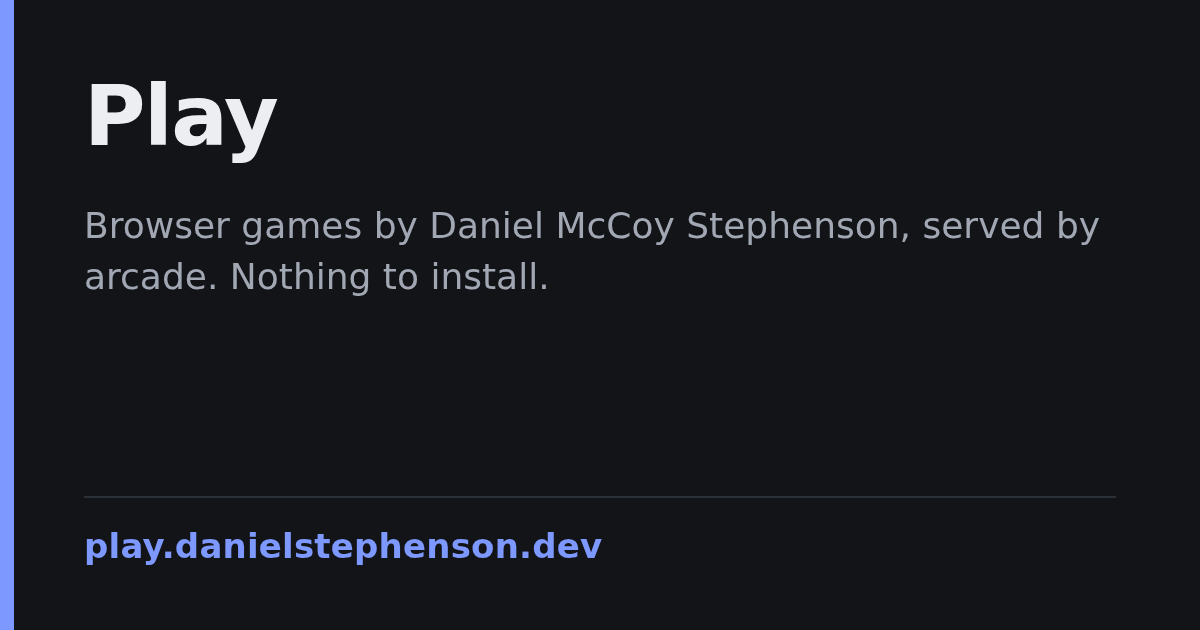
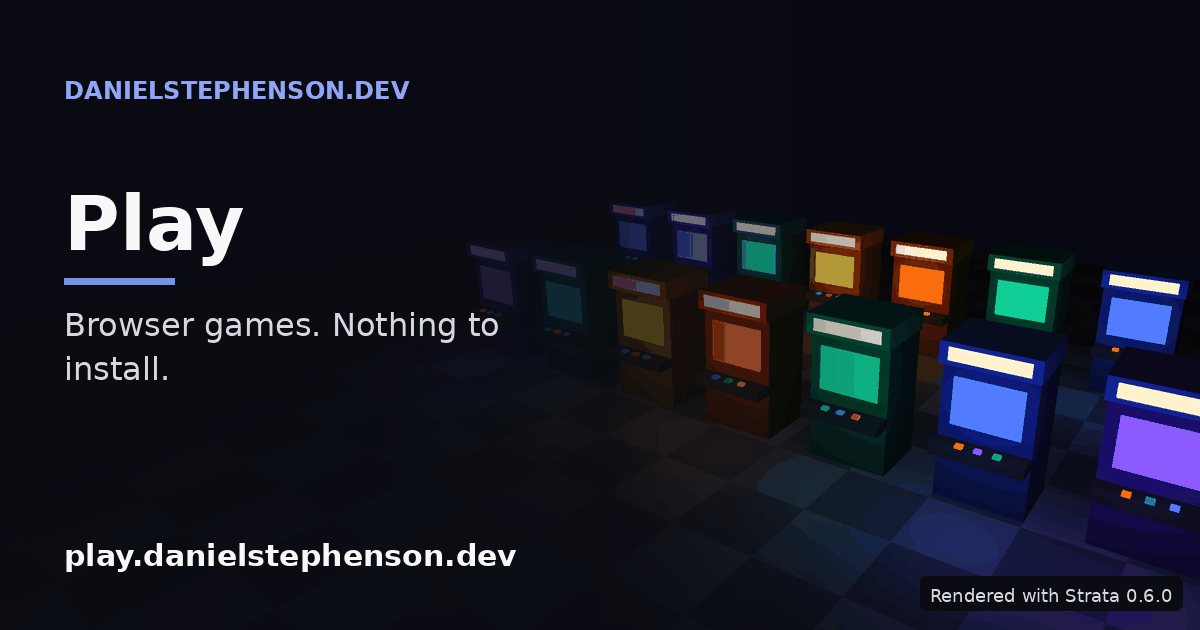
Redraw the landing page's share image as a Strata-rendered scene
src/arcade/og.png was a text card. It is redrawn as rows of arcade cabinets
on a checkered floor at night, rendered in 3D with Strata 0.6.0 by
community-site-kit's tools/og-card, with the title and play domain over it.
It is a 256-colour PNG (61 KB), under the 150 KB the tests allow. Its spec
and provenance are kept in og-card/.

OG_IMAGE_ALT now describes the picture, and a test checks it against the card
spec's alt text.

drafted by Claude on behalf of Daniel Stephenson

diff --git a/tests/test_landing.py b/tests/test_landing.py
@@ -1,3 +1,5 @@
+import json
+import os
 import struct
 
 from arcade import landing
@@ -41,12 +43,12 @@ def test_the_page_carries_share_preview_tags_on_its_own_domain():
         '<meta property="og:image:type" content="image/png">',
         '<meta property="og:image:width" content="1200">',
         '<meta property="og:image:height" content="630">',
-        '<meta property="og:image:alt" content="Play: browser games by Daniel McCoy Stephenson',
+        '<meta property="og:image:alt" content="Rows of arcade cabinets on a checkered floor at night',
         '<meta name="twitter:card" content="summary_large_image">',
         '<meta name="twitter:title" content="Play &mdash;',
         '<meta name="twitter:description" content="Browser games',
         '<meta name="twitter:image" content="https://play.example.com/og.png">',
-        '<meta name="twitter:image:alt" content="Play: browser games',
+        '<meta name="twitter:image:alt" content="Rows of arcade cabinets',
     ):
         assert tag in page, tag
     assert "localhost" not in page
@@ -58,6 +60,14 @@ def test_the_share_image_is_a_png_of_the_size_the_tags_state():
     # IHDR follows the signature: big-endian width and height at bytes 16 and 20.
     assert struct.unpack(">II", data[16:24]) == (landing.OG_IMAGE_WIDTH, landing.OG_IMAGE_HEIGHT) == (1200, 630)
     assert len(data) < 150 * 1024
+
+
+def test_the_share_image_alt_text_is_its_card_spec_s():
+    root = os.path.join(os.path.dirname(os.path.abspath(__file__)), "..")
+    with open(os.path.join(root, "og-card", "card.json"), encoding="utf-8") as handle:
+        spec = json.load(handle)
+    assert os.path.normpath(os.path.join(root, "og-card", spec["output"])) == os.path.normpath(landing.OG_IMAGE_FILE)
+    assert landing.OG_IMAGE_ALT == spec["alt"]
 
 
 def test_the_share_preview_url_follows_the_configured_domain():

diff --git a/src/arcade/landing.py b/src/arcade/landing.py
@@ -23,16 +23,23 @@ TITLE = "Play &mdash; browser games by Daniel McCoy Stephenson"
 DESCRIPTION = "Browser games by Daniel McCoy Stephenson, served by arcade. Nothing to install."
 
 # The link-preview card named by og:image and twitter:image: og.png beside this
-# module, a 1200x630 image of the page's name, DESCRIPTION and the play domain
-# in the page's dark colours. It is served at /og.png on the API host only (a
-# game's host never answers it, like /robots.txt). The page itself never loads
-# it, so the CSP's "img-src data:" is unaffected. If the image is redrawn at
-# another size, change the dimensions here with it.
+# module, a 1200x630 picture of arcade cabinets rendered in 3D with Strata, with
+# the page's name and the play domain over it. It is drawn from og-card/card.json
+# (see og-card/README.md), and OG_IMAGE_ALT is that spec's alt text, word for
+# word: tests/test_landing.py fails if the two drift apart. It is served at
+# /og.png on the API host only (a game's host never answers it, like
+# /robots.txt). The page itself never loads it, so the CSP's "img-src data:" is
+# unaffected. If the image is redrawn at another size, change the dimensions
+# here with it.
 OG_IMAGE_PATH = "/og.png"
 OG_IMAGE_FILE = os.path.join(os.path.dirname(os.path.abspath(__file__)), "og.png")
 OG_IMAGE_WIDTH = 1200
 OG_IMAGE_HEIGHT = 630
-OG_IMAGE_ALT = "Play: browser games by Daniel McCoy Stephenson, served by arcade. Nothing to install."
+OG_IMAGE_ALT = (
+    "Rows of arcade cabinets on a checkered floor at night, each screen glowing a different colour, "
+    "rendered in 3D with Strata. Over it: the title Play, the line \u201cBrowser games. Nothing to install.\u201d, "
+    "and the address play.danielstephenson.dev."
+)
 _ogImage = []
 
 

diff --git a/README.md b/README.md
@@ -119,7 +119,7 @@ out for a phone first, and is sent with `Cache-Control: public, max-age=60`. Set
 | `POST` | `/api/games/<slug>/current` | `{"version": "…"}`: repoints the game to a stored version. This is rollback. Responses: **200**; **401/403** on a missing or wrong token; **400** for a body that is not that JSON; **413** for a body over 4 KiB; **404** for a version not on disk. |
 | `GET` | `/api/games`, `/api/games/<slug>` | slug, title, repo, url, aliases, kind, isolation, current, versions, **plays** (page loads by people; crawlers and scripts are excluded by User-Agent). Needs no token, never shows hashes, and is readable cross-origin (`Access-Control-Allow-Origin: *`) so the portal can show play counts. **404** for an unknown slug. |
 | `GET` | `/version.json` | `{"version": "<x.y.z>"}`: the version of arcade itself that is running (`arcade.__version__`), with `Cache-Control: no-store`, so a deploy can be verified by the version it reports. Needs no token. Answered on `play.<base>` only: on a game's host `/version.json` is the game's own path. |
-| `GET` | `/og.png` | The landing page's share-preview image (`og:image`, `twitter:image`): a 1200x630 PNG, `src/arcade/og.png`, with `Cache-Control: public, max-age=86400`. Needs no token. Answered on `play.<base>` only: on a game's host `/og.png` is the game's own path. |
+| `GET` | `/og.png` | The landing page's share-preview image (`og:image`, `twitter:image`): a 1200x630 PNG, `src/arcade/og.png`, with `Cache-Control: public, max-age=86400`. The picture is arcade cabinets rendered in 3D with [Strata](https://github.com/Preponderous-Software/strata), drawn from `og-card/card.json` (see `og-card/README.md`). Needs no token. Answered on `play.<base>` only: on a game's host `/og.png` is the game's own path. |
 | `GET` | `/robots.txt` | `User-agent: *` / `Allow: /` as `text/plain`, with `Cache-Control: public, max-age=3600`. Answered on `play.<base>` only: on a game's host `/robots.txt` is the game's own path. |
 
 The token is `Authorization: Bearer <token>`, and each game's token deploys only that game. An

diff --git a/og-card/README.md b/og-card/README.md
@@ -1,0 +1,20 @@
+# Link-preview card
+
+`src/arcade/og.png` is the picture a shared link to this site unfurls with (`og:image`). It is drawn from [`card.json`](card.json) by [community-site-kit's `tools/og-card`](https://github.com/kingdom-community/community-site-kit/tree/c5fdb46f139db840a74f93f2d955bfc9fb5e1c50/tools/og-card): a small 3D scene rendered with [Strata](https://github.com/Preponderous-Software/strata) 0.6.0, with the title over it. The scene is built from the seed alone and contains no site data. [`card.provenance.json`](card.provenance.json) records what made the committed PNG: the tool commit, the Strata library's SHA-256, the Pillow and font hashes, and the PNG's own SHA-256.
+
+The PNG is pre-rendered and committed, so nothing 3D runs on the landing page.
+
+## Changing the card
+
+Edit `card.json`. If the picture or its text changes, rewrite `alt` to match. Copy the new `alt` into `OG_IMAGE_ALT` in `src/arcade/landing.py`; `tests/test_landing.py` fails until the two match. The card is a palette PNG (`colors`: 256) to stay under the 150 KB the tests allow. Then, on Linux x86-64:
+
+```sh
+git clone https://github.com/kingdom-community/community-site-kit /tmp/csk
+git -C /tmp/csk checkout c5fdb46f139db840a74f93f2d955bfc9fb5e1c50
+python3 -m venv /tmp/og-venv
+/tmp/og-venv/bin/pip install -r /tmp/csk/tools/og-card/requirements.txt
+sudo apt-get install libegl1 libgl1-mesa-dri fonts-dejavu-core
+/tmp/og-venv/bin/python /tmp/csk/tools/og-card/og_card.py og-card/card.json
+```
+
+Commit the PNG and both JSON files. Scrapers cache a card by its URL for days, so a materially new picture is best given a new file name.

diff --git a/CHANGELOG.md b/CHANGELOG.md
@@ -29,6 +29,15 @@ All notable changes to this project are documented in this file. The format is b
   version it reports. It is answered on the API host only, never on a game's host, so it cannot
   shadow a static game's own `/version.json`.
 
+### Changed
+
+- The share-preview image, `src/arcade/og.png`, is redrawn as a 3D scene: rows of arcade cabinets
+  on a checkered floor at night, each screen glowing a different colour, rendered with
+  [Strata](https://github.com/Preponderous-Software/strata), with the title and play domain over
+  it. Its alt text now describes the picture. It is drawn from `og-card/card.json` by
+  community-site-kit's `tools/og-card` as a 256-colour PNG (61 KB, under the 150 KB the tests
+  allow) and is pre-rendered, so nothing 3D runs on the landing page.
+
 ### Fixed
 
 - A registry file that does not exist or cannot be read is reported by `routers`, `hosts`,
